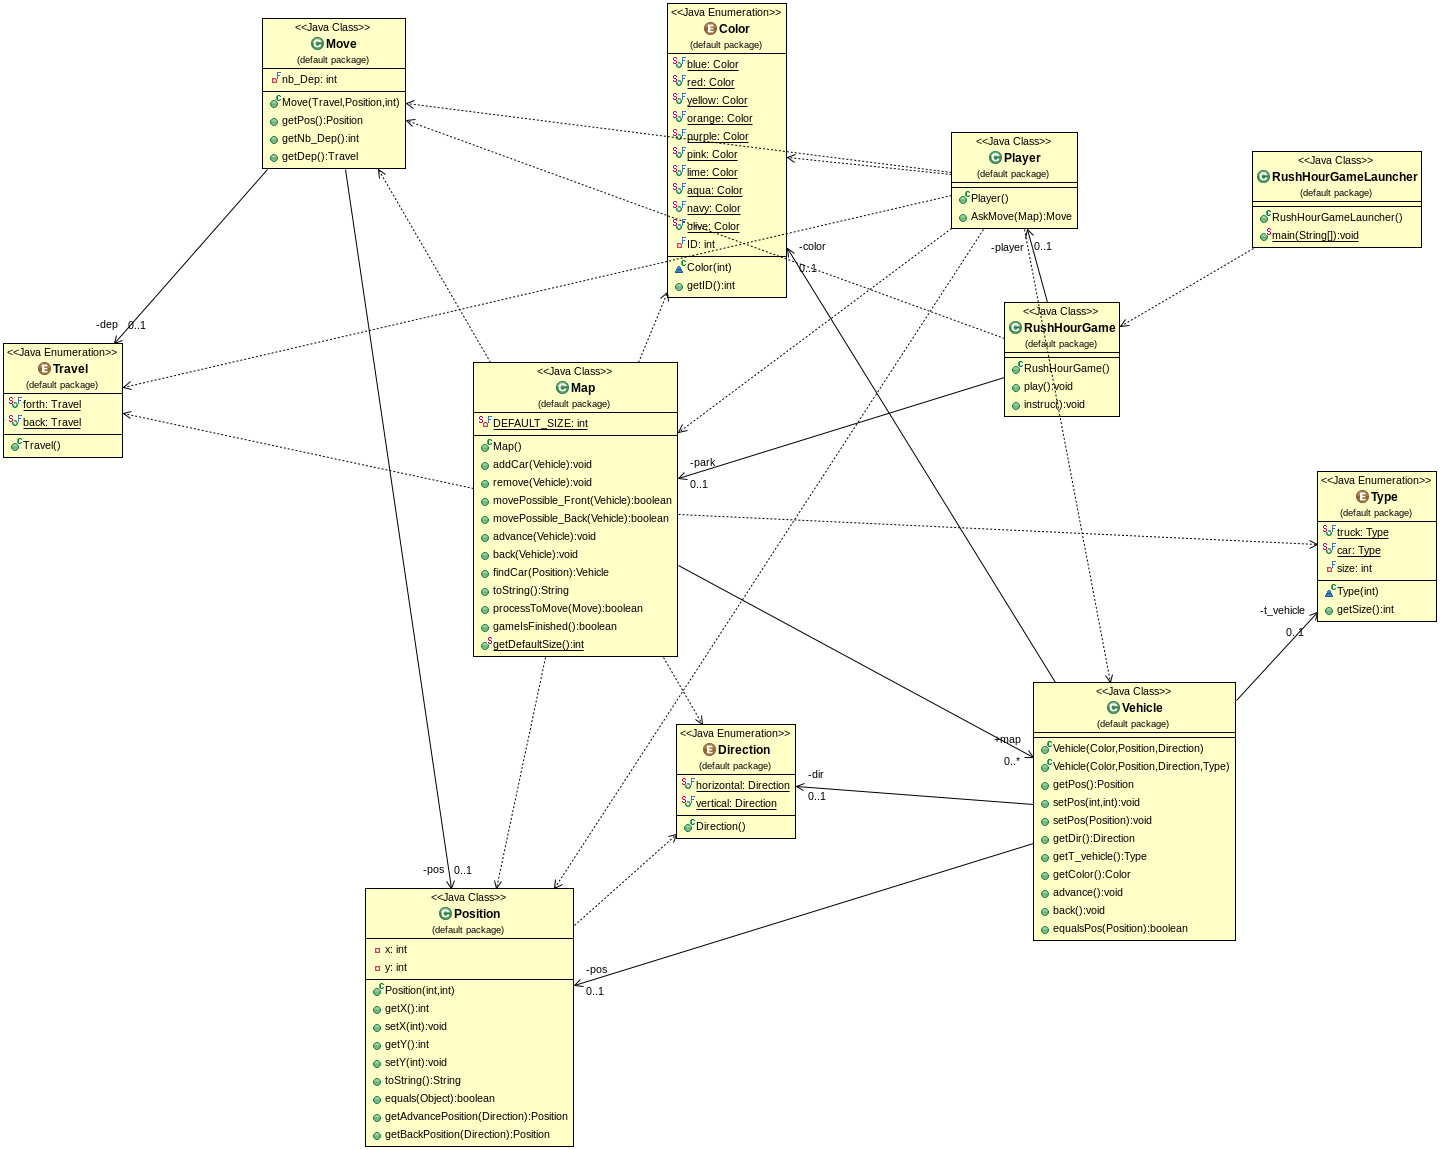
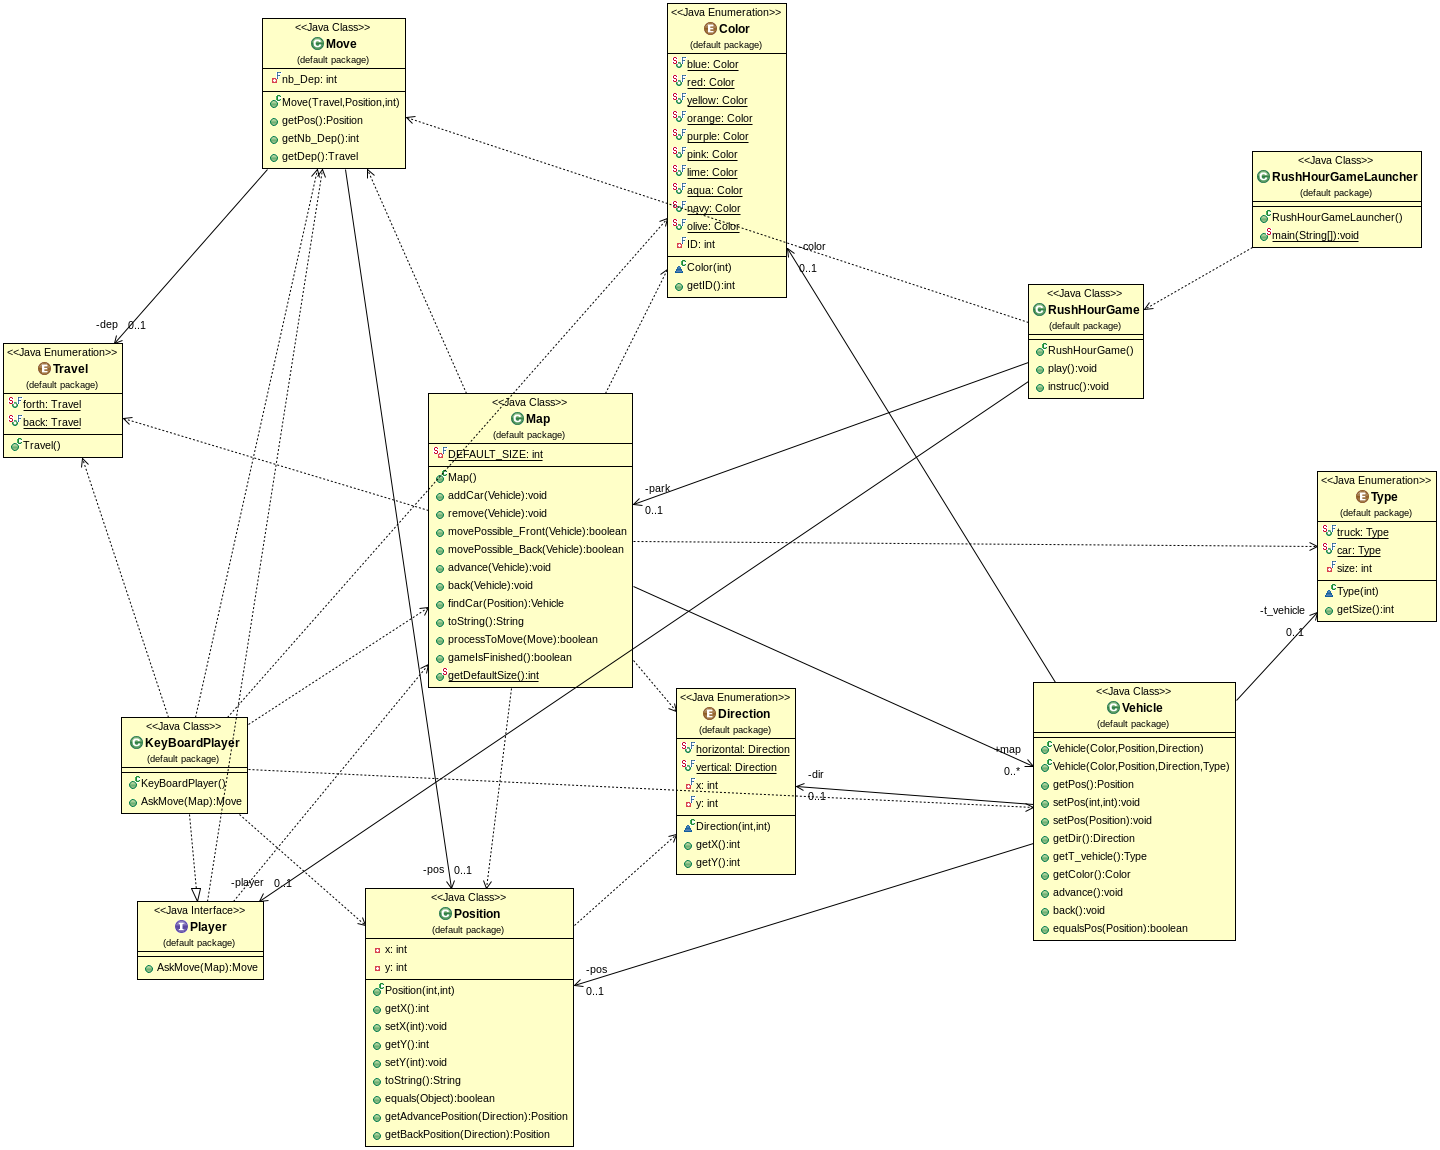
creation of interface Player and rename Player on KeyBoardPlayer

diff --git a/src/Player.java b/src/Player.java
@@ -1,34 +1,13 @@
-import java.util.Scanner;
 
-public class Player {
+/**
+ * @author lefebvju
+ *
+ */
+public interface Player {
 
-	public Player() {
-		
-	}
-
-	public Move AskMove(Map park) {
-		
-		Scanner sc =new Scanner(System.in);
-		System.out.println("Entrez numéro de vehicule:");
-		int num = sc.nextInt();
-		Position pos = null;
-		for(Vehicle leVehicle: park.map) {
-			if(leVehicle.getColor().getID()==num) {
-				pos=leVehicle.getPos();
-			}
-		}
-		System.out.println("entrez 1 pour avancer et 2 pour reculer");
-		int num_dep = sc.nextInt();
-		Travel dep = null;
-		if(num_dep==1) {
-			dep=Travel.forth;
-		}
-		else if (num_dep==2) {
-			dep=Travel.back;
-		}
-		System.out.println("entrez le nombre de case dont vous voulez avancer");
-		int nb_dep = sc.nextInt();
-		Move move=new Move(dep, pos, nb_dep);
-		return move;
-	}
+	/**
+	 * @param park
+	 * @return the movement to achieve
+	 */
+	public Move AskMove(Map park) ;
 }

diff --git a/src/KeyBoardPlayer.java b/src/KeyBoardPlayer.java
@@ -1,0 +1,41 @@
+import java.util.Scanner;
+
+/**
+ * @author lefebvju
+ *
+ */
+public class KeyBoardPlayer implements Player{
+
+	/**
+	 * it's a constructor of KeyBoardPlayer
+	 */
+	public KeyBoardPlayer() {
+		
+	}
+
+	public Move AskMove(Map park) {
+		
+		Scanner sc =new Scanner(System.in);
+		System.out.println("Entrez numéro de vehicule:");
+		int num = sc.nextInt();
+		Position pos = null;
+		for(Vehicle leVehicle: park.map) {
+			if(leVehicle.getColor().getID()==num) {
+				pos=leVehicle.getPos();
+			}
+		}
+		System.out.println("entrez 1 pour avancer et 2 pour reculer");
+		int num_dep = sc.nextInt();
+		Travel dep = null;
+		if(num_dep==1) {
+			dep=Travel.forth;
+		}
+		else if (num_dep==2) {
+			dep=Travel.back;
+		}
+		System.out.println("entrez le nombre de case dont vous voulez avancer");
+		int nb_dep = sc.nextInt();
+		Move move=new Move(dep, pos, nb_dep);
+		return move;
+	}
+}

diff --git a/src/RushHourGame.java b/src/RushHourGame.java
@@ -32,7 +32,7 @@ public class RushHourGame {
 	 */
 	public RushHourGame() {
 		this.park=new Map();
-		this.player=new Player();
+		this.player=new KeyBoardPlayer();
 	}
 	
 
